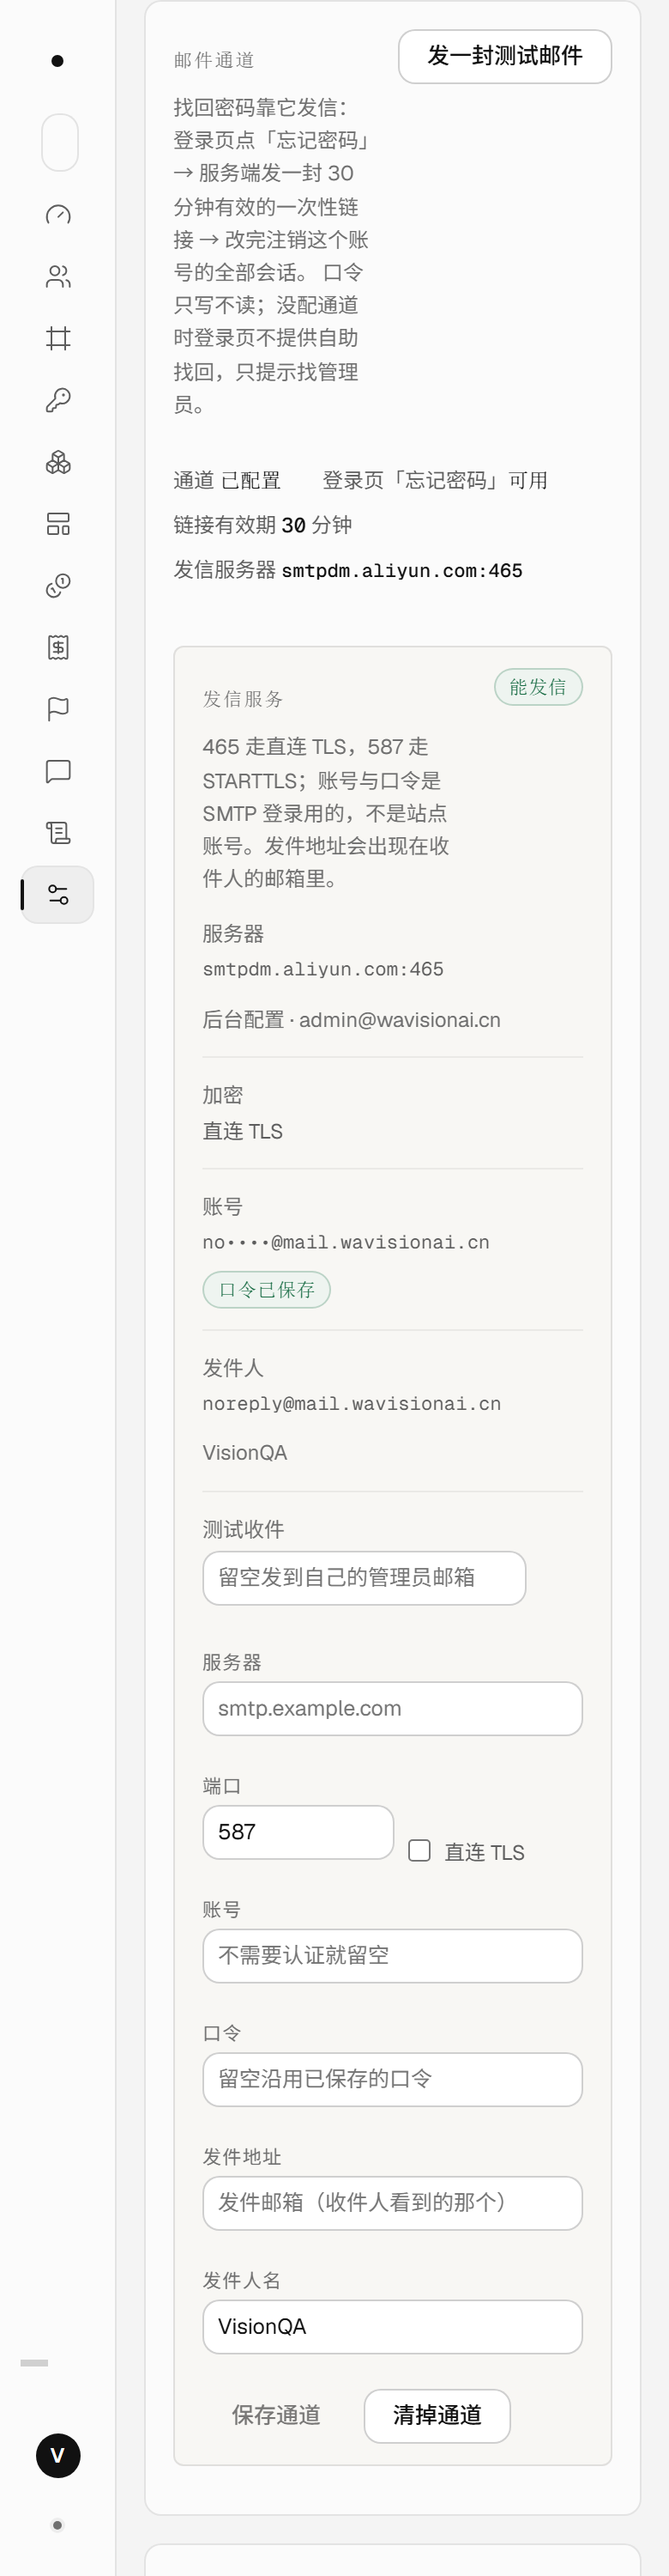
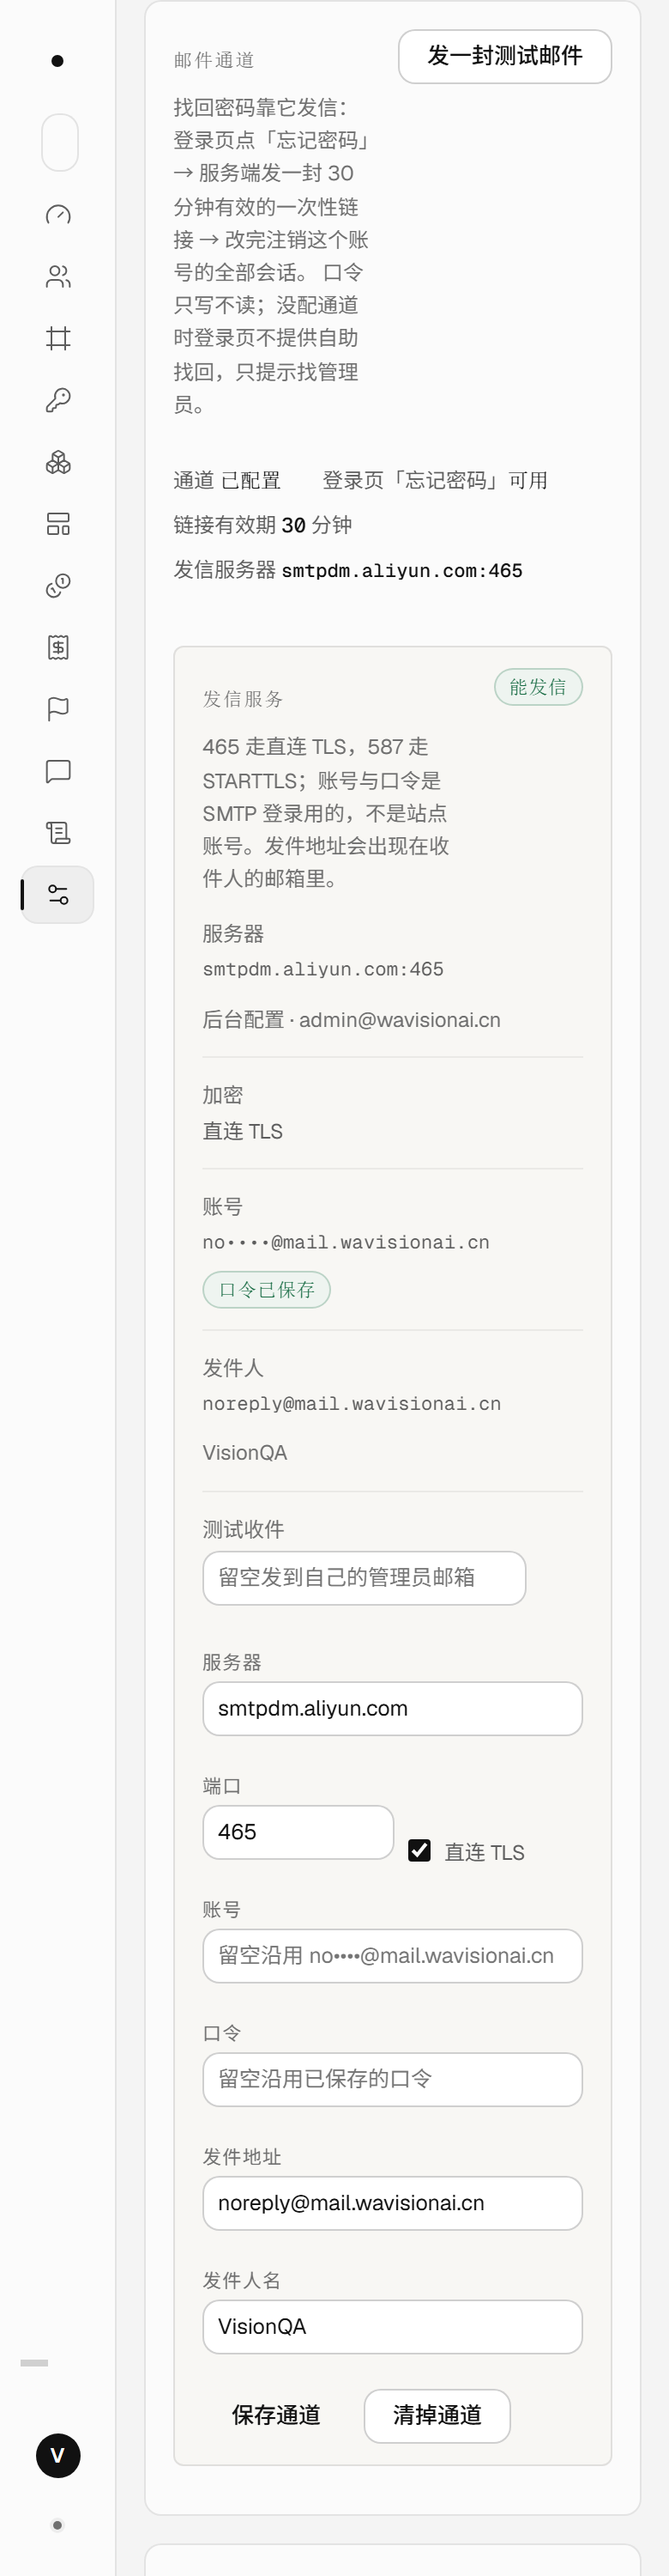
feat(admin): 邮件通道账号留空即沿用，后台表单预填已保存项（0.9.170 上线）
- server/mail-config.mjs：账号留空时回填上一次的账号，口令留空沿用旧口令；
  校验也用回填后的 user，修掉「账号空着重存 → 填了口令就要填账号」的自相矛盾
- src/pages/admin/SystemSection.tsx：通道已配置时把服务器/端口/直连TLS/发件地址/发件人名
  填回表单，账号框只留占位「留空沿用 no••••@…」，口令框永远空；仅在 updatedAt 变化时覆盖
- test/mail-config.test.mjs 新增 6 条（0600 落盘、沿用账号与口令、换账号必须重填口令等）
- 全量 1294 条 1293 过；canvas-queue-visible 在全量并发下偶发 503，单跑 8/8 全绿
- 生产 0.9.170：入口 index-CxHK75Mf.js，health ok templates 26，快照 20261117-065723-20261117-1503-r184mail
- 生产验证：账号与口令都留空重新 PUT → passKept true、通道没坏；测试信 200/273ms，外部收件箱 2 秒收到
- 截图与 README 二百四十二同步更新

diff --git a/src/pages/admin/SystemSection.tsx b/src/pages/admin/SystemSection.tsx
@@ -1,4 +1,4 @@
-import { useState } from 'react'
+import { useEffect, useRef, useState } from 'react'
 import { request } from '../../api/client'
 import { useUiMode } from '../../api/app'
 import { formatDateTime, formatDuration, useApi, type BdcPort, type BdcStatus, type VersionInfo } from './data'
@@ -354,6 +354,27 @@ export default function SystemSection() {
     fromName: 'VisionQA',
     fromAddress: '',
   })
+
+  // 已配置的通道要把「除了口令以外」的字段填回表单：否则改个端口得把服务器、发件人重打一遍，
+  // 还很容易顺手把账号打错。口令永远不回显，账号留空即沿用（服务端 saveMail 同样按这个口径）。
+  // 只在 updatedAt 变了（刚保存 / 换了一台）时覆盖，免得用户正在输入时被刷掉。
+  const mailPrefill = useRef('')
+  const mailSaved = mail.data?.mail
+  useEffect(() => {
+    if (!mailSaved?.configured) return
+    const stamp = mailSaved.updatedAt || 'saved'
+    if (mailPrefill.current === stamp) return
+    mailPrefill.current = stamp
+    setMailForm({
+      host: mailSaved.host || '',
+      port: String(mailSaved.port || (mailSaved.secure ? 465 : 587)),
+      secure: mailSaved.secure === true,
+      user: '',
+      pass: '',
+      fromName: mailSaved.fromName || 'VisionQA',
+      fromAddress: mailSaved.fromAddress || '',
+    })
+  }, [mailSaved])
 
   const errors = [
     version.error ? `GET /api/version：${version.error}` : '',
@@ -880,7 +901,11 @@ export default function SystemSection() {
                       className="vq-input"
                       value={mailForm.user}
                       onChange={(event) => setMailForm((previous) => ({ ...previous, user: event.target.value }))}
-                      placeholder="不需要认证就留空"
+                      placeholder={
+                        mailSaved?.configured && mailSaved.accountMasked
+                          ? '留空沿用 ' + mailSaved.accountMasked
+                          : '不需要认证就留空'
+                      }
                       autoComplete="off"
                       spellCheck={false}
                       disabled={mailBusy === 'save'}

diff --git a/README.md b/README.md
@@ -4258,9 +4258,28 @@ SMTP 凭据还在你手上，代码侧却一直悬着「填进去到底能不能
 2. 测试信默认发给管理员邮箱，**头两封失败了**——`收信域名 MX 地址不对`：主域 `wavisionai.cn` 没有 MX（我们只给 `mail.` 加了解析）。管理员想自己收「忘记密码」的信，得换真实邮箱或给主域配邮箱。
 3. 两个普通账号的邮箱是 `@login.visionqa.local` 占位符，**它们的找回密码永远发不出去**；真实用户注册填真邮箱才有用。
 
-**边界**：只测了 465 直连 TLS，没测 587 STARTTLS / 80；后台「系统」页 390 宽下能用但正文列只有约 215 px、中文断行；后台表单不预填已保存的 host / port / 账号（只有上面的「已配置」事实块显示），下轮顺手改。
+**边界**：只测了 465 直连 TLS，没测 587 STARTTLS / 80；后台「系统」页 390 宽下能用但正文列只有约 215 px、中文断行。表单原先不预填已保存的 host / port / 账号，当场就改了（见下一节）。
 
 细节与 1440 / 390 两张后台截图见 [docs/smtp-directmail-2026-11-17.md](docs/smtp-directmail-2026-11-17.md)。
+
+## 二百四十二、0.9.170：后台表单不再把「已保存的通道」弄丢（代码 + 发版，2026-11-17）
+
+上一节留下的那条尾巴——后台表单不预填——不止是麻烦，是个**真会出事的坑**：改个端口要重打服务器 / 发件人，账号空着再保存，服务端按「换了账号」处理，直接回「填了口令就要填账号」；就算填了账号，口令也得重输。运维改一次端口等于重配一遍通道。
+
+**改法（两处，都很小）**：
+1. `server/mail-config.mjs`：**账号留空 = 沿用已保存的账号**。口令留空沿用旧口令的规则不变；真换了账号又没给新口令仍当场报错（这条不能松）。校验时 user 也用回填后的值，否则会自相矛盾地报「填了口令就要填账号」。
+2. `src/pages/admin/SystemSection.tsx`：通道已配置时把服务器 / 端口 / 直连 TLS / 发件地址 / 发件人名填回表单，账号框只留占位「留空沿用 no••••@…」，口令框永远空。只在 `updatedAt` 变化时覆盖，免得正打字被刷掉。
+
+**测试**：新增 `test/mail-config.test.mjs` 6 条（口令只落盘不回显 + 文件 0600、账号留空沿用账号与口令、换账号不填口令要报错且不动已存配置、没配过时允许无认证中继、发件地址 / 服务器地址不合法的错误话术、清掉通道后读不到配置）。全量 **1294 条、1293 通过**；唯一一条失败是 `canvas-queue-visible` 的排队用例在全量并发下偶发 503，**单跑 8/8 全绿**，与本次改动无关（记在这，不假装没发生）。lint 0 error / 16 warning，`tsc -b` 干净。
+
+**发版**：`0.9.169 → 0.9.170`，入口 `index-CxHK75Mf.js`，`/api/health` ok templates 26，快照 `20261117-065723-20261117-1503-r184mail.tar.gz`（`rollback.sh --to 1` 回 0.9.169）。
+
+**生产验证（不是只看构建）**：
+1. `GET /api/version` → `0.9.170`；
+2. 用**账号留空 + 口令留空**重新 PUT 一次通道（就是 UI 现在的行为）→ `200`、`passKept:true`、`configured:true`、宿主 / 端口 / 发件地址全没变——要是没改对，这一步会把生产通道弄坏；
+3. 紧接着发测试信 → `200 / 273 ms`，外部真实收件箱 **2 秒收到**（14:58:10，主题「VisionQA 邮件通道测试」）。
+
+截图已换成预填后的样子（同一张 [docs/admin-mail-channel-1440-2026-11-17.png](docs/admin-mail-channel-1440-2026-11-17.png)，右下角版本号 0.9.170）。
 
 
 

diff --git a/docs/smtp-directmail-2026-11-17.md b/docs/smtp-directmail-2026-11-17.md
@@ -48,6 +48,8 @@
 }
 ```
 
+配好之后后台表单会把「除口令以外」的字段填回来（服务器、端口、直连 TLS、发件地址、发件人名），账号只给掩码并留空——**留空即沿用**，只改端口不用重打账号、也不会把口令弄丢（0.9.170 起；之前账号空着重存会报「填了口令就要填账号」）。
+
 口令只在这一次请求里出现，之后后台只回掩码（`no••••@mail.wavisionai.cn` + `hasPassword:true`），明文只落在生产 `/var/lib/visionqa/mail.json`（`0600`）。
 
 填完这两个开关跟着变：`mail.configured:true`、`passwordReset:true`（登录页「忘记密码」从「找管理员」变成真发信，链接 30 分钟有效）。
